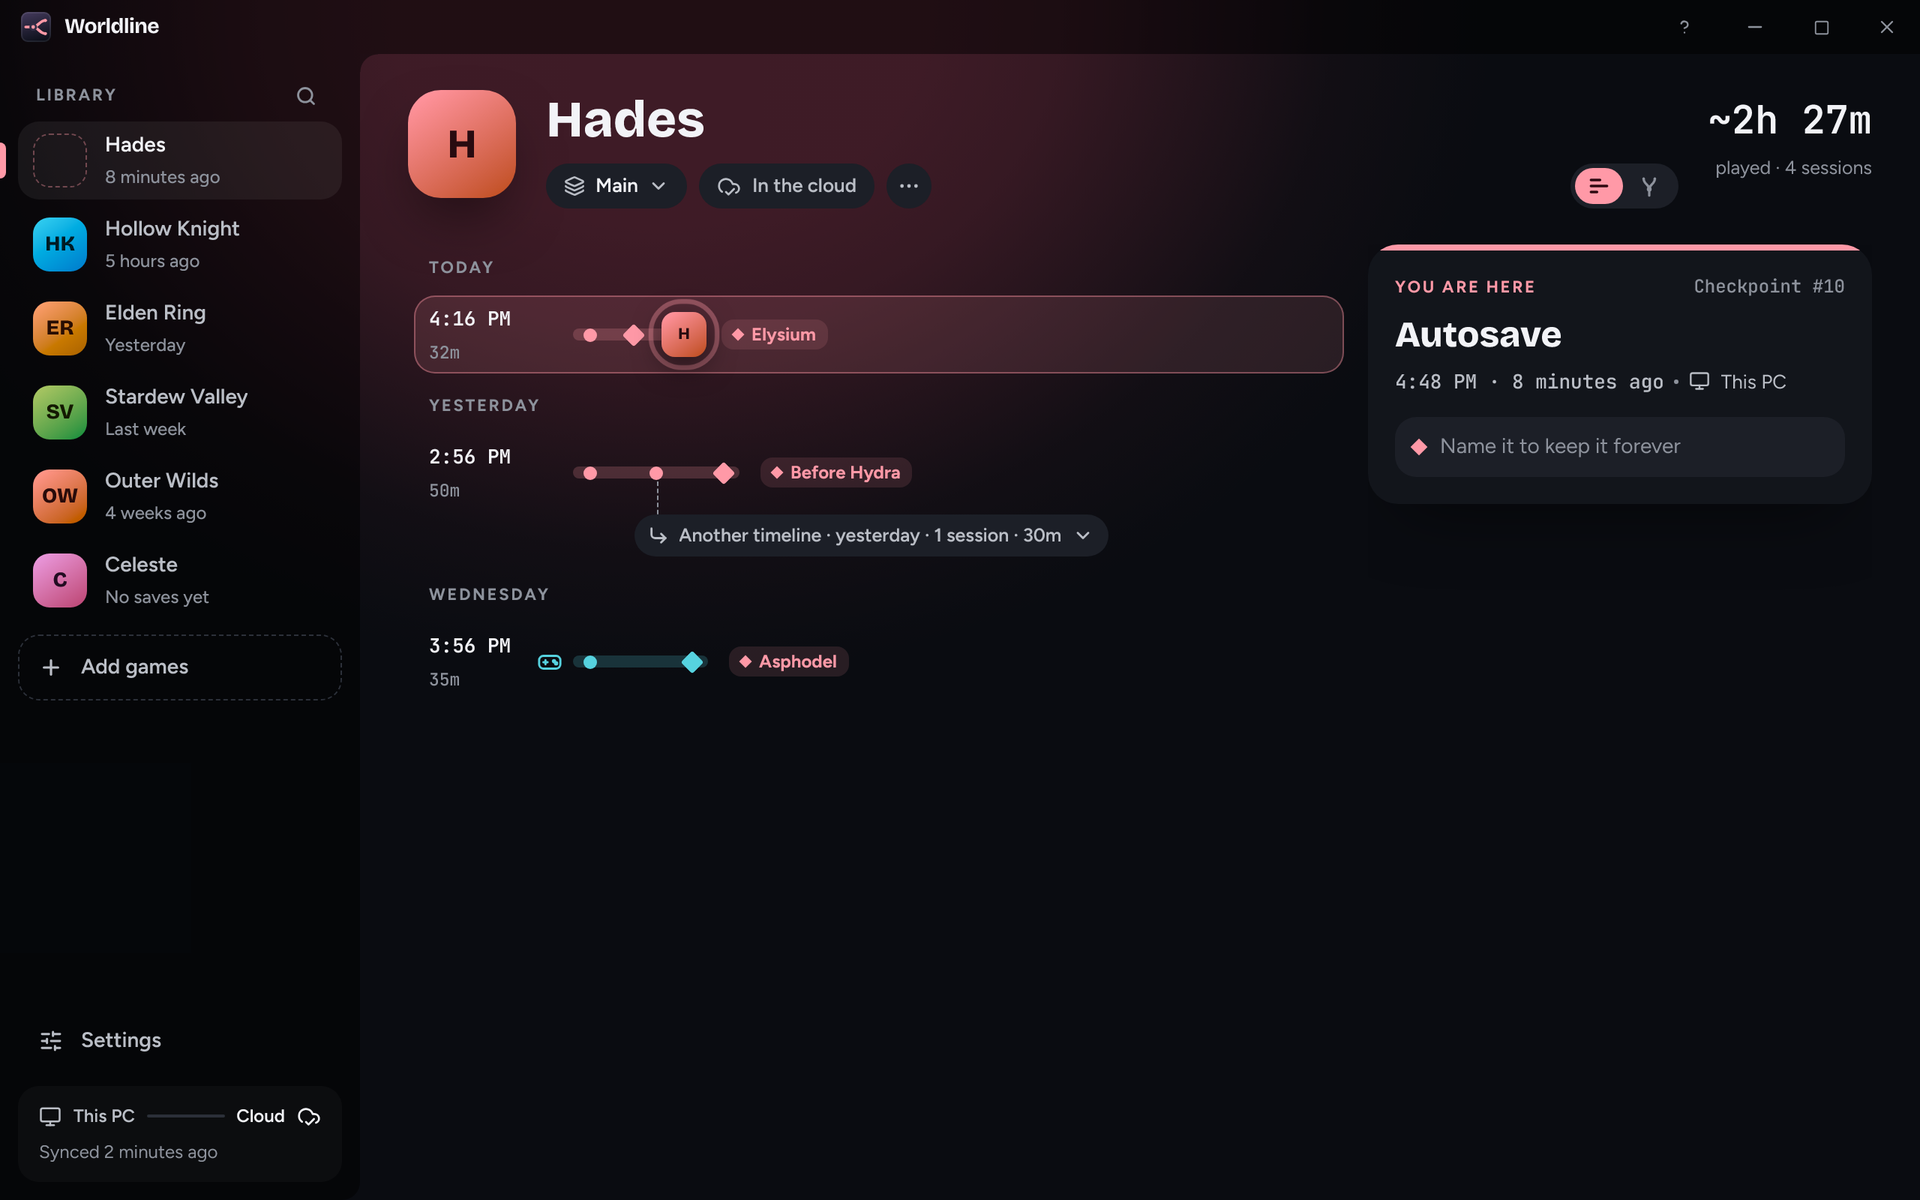
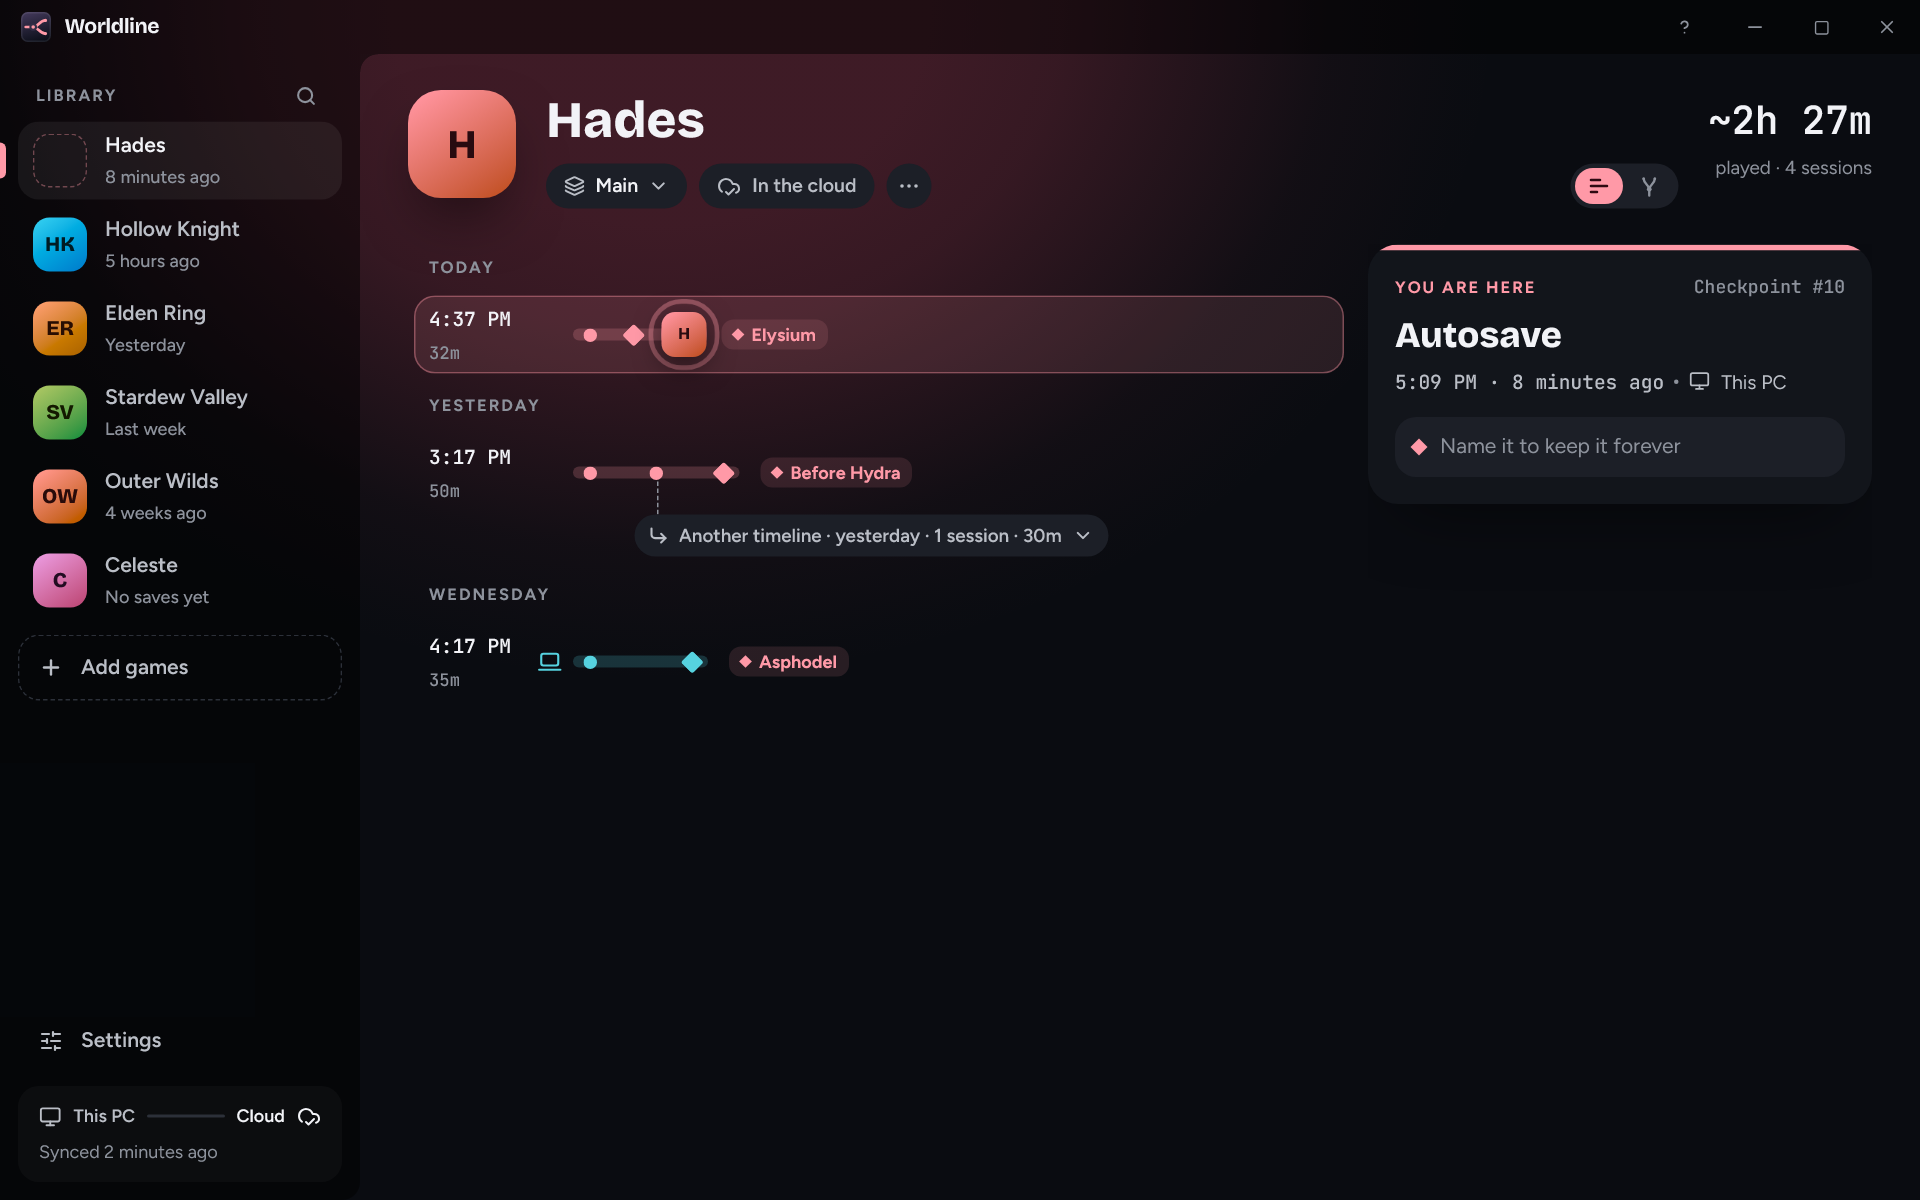
docs: sync is between any devices, not a Steam Deck
The README, the overlay ADR and the mocked UI behind the screenshots name a
laptop as the other device instead of a Steam Deck.

diff --git a/gui/src/ipc/mocks/fixtures.ts b/gui/src/ipc/mocks/fixtures.ts
@@ -109,7 +109,7 @@ function savedGame(id: number, title: string, minutes: number): FullGame {
   });
 }
 
-/** Several games with sync on: one has news from the handheld, one cloud game isn't here. */
+/** Several games with sync on: one has news from the laptop, one cloud game isn't here. */
 function library(): Fixture {
   const games = [eldenRing(), hollowKnight(), savedGame(3, 'Hades', 60 * 5), savedGame(4, 'Celeste', 60 * 24 * 9), savedGame(5, 'Stardew Valley', 60 * 24 * 30)];
   const status = (game: FullGame, relation: Divergence, device: string | null = null): GameSyncStatus => ({
@@ -126,8 +126,8 @@ function library(): Fixture {
     syncSettings: { remote_path: 'D:/Cloud/Worldline' },
     syncReport: {
       synced_at: new Date(Date.now() - 4 * 60_000).toISOString(),
-      games: [status(games[0], 'in_sync'), status(games[1], 'fast_forward', 'Steam Deck'), status(games[2], 'in_sync'), status(games[3], 'in_sync')],
-      remote_games: [{ uuid: 'remote-1', title: 'Hollow Knight: Silksong', installed: false, adopted: false, source_device: 'Steam Deck', version_count: 4 }],
+      games: [status(games[0], 'in_sync'), status(games[1], 'fast_forward', 'Laptop'), status(games[2], 'in_sync'), status(games[3], 'in_sync')],
+      remote_games: [{ uuid: 'remote-1', title: 'Hollow Knight: Silksong', installed: false, adopted: false, source_device: 'Laptop', version_count: 4 }],
       devices: [],
       remote_versions: {},
       problems: [],
@@ -136,18 +136,18 @@ function library(): Fixture {
 }
 
 
-const DECK: DeviceMetadata = {
+const LAPTOP: DeviceMetadata = {
   device_uuid: '00000000-0000-4000-8000-00000000d002',
-  name: 'Steam Deck',
+  name: 'Laptop',
   platform: 'linux',
   first_seen: '2024-01-01T00:00:00Z',
   last_seen: '2024-01-01T00:00:00Z',
-  kind: 'handheld',
+  kind: 'laptop',
 };
 
-type Checkpoint = [id: number, parent: number | null, minutesAgo: number, tag?: string | null, deck?: boolean];
+type Checkpoint = [id: number, parent: number | null, minutesAgo: number, tag?: string | null, laptop?: boolean];
 
-/** Three days of Hades: a session on the handheld, a timeline you left, and tonight's play. */
+/** Three days of Hades: a session on the laptop, a timeline you left, and tonight's play. */
 const HADES: Checkpoint[] = [
   [1, null, 60 * 72 + 60, null, true],
   [2, 1, 60 * 72 + 25, 'Asphodel', true],
@@ -163,14 +163,14 @@ const HADES: Checkpoint[] = [
 
 function hades(extra: Checkpoint[] = []): FullGame {
   const main = makeSlot({ id: 1, game_id: 1, name: 'Main', active_version_id: 10 });
-  const versions = [...HADES, ...extra].map(([id, parent, minutes, tag = null, deck = false]) => makeVersion({
+  const versions = [...HADES, ...extra].map(([id, parent, minutes, tag = null, laptop = false]) => makeVersion({
     id,
     slot_id: 1,
     parent_id: parent,
     version_number: id,
     tag,
     created_at: minutesAgo(minutes),
-    origin_device: deck ? DECK.device_uuid : null,
+    origin_device: laptop ? LAPTOP.device_uuid : null,
   }));
   return makeGame({
     id: 1,
@@ -190,11 +190,11 @@ function celeste(): FullGame {
   return makeGame({ id: 2, title: 'Celeste', active_slot_id: 2, active_slot: main, slots: [main], versions: [], last_version: null });
 }
 
-/** The Sessions view: Hades with history, Celeste with none, the handheld synced in. */
+/** The Sessions view: Hades with history, Celeste with none, the laptop synced in. */
 function sessions(relation: Divergence = 'in_sync', extra: Checkpoint[] = []): Fixture {
   const games = [hades(extra), celeste()];
-  const deckVersions = games[0].versions.filter((v) => v.origin_device === DECK.device_uuid);
-  const pending = relation === 'fast_forward' ? deckVersions[deckVersions.length - 1] : null;
+  const laptopVersions = games[0].versions.filter((v) => v.origin_device === LAPTOP.device_uuid);
+  const pending = relation === 'fast_forward' ? laptopVersions[laptopVersions.length - 1] : null;
   return {
     ...base(games),
     syncSettings: { remote_path: 'D:/Cloud/Worldline' },
@@ -203,14 +203,14 @@ function sessions(relation: Divergence = 'in_sync', extra: Checkpoint[] = []): F
       games: [{
         game_uuid: games[0].uuid,
         relation,
-        remote_device: relation === 'in_sync' ? null : DECK.name,
+        remote_device: relation === 'in_sync' ? null : LAPTOP.name,
         remote_version_uuid: pending?.uuid ?? null,
         remote_version_id: pending?.id ?? null,
         auto_applied: false,
       }],
       remote_games: [],
-      devices: [DECK],
-      remote_versions: Object.fromEntries(deckVersions.map((v) => [v.uuid, DECK.name])),
+      devices: [LAPTOP],
+      remote_versions: Object.fromEntries(laptopVersions.map((v) => [v.uuid, LAPTOP.name])),
       problems: [],
     },
   };
@@ -250,12 +250,12 @@ function addGames(scan: Fixture['scan']): Fixture {
     ...state,
     syncReport: {
       ...report,
-      devices: [DECK, { ...DECK, device_uuid: '00000000-0000-4000-8000-00000000d003', name: 'Laptop', platform: 'windows', kind: 'laptop' }],
+      devices: [LAPTOP, { ...LAPTOP, device_uuid: '00000000-0000-4000-8000-00000000d003', name: 'Work PC', platform: 'windows', kind: 'desktop' }],
       remote_games: [
         ...report.remote_games,
-        { uuid: 'remote-2', title: 'Balatro', installed: true, adopted: false, source_device: 'Laptop', version_count: 12 },
-        { uuid: 'remote-3', title: 'Dave the Diver', installed: false, adopted: false, source_device: 'Steam Deck', version_count: 1 },
-        { uuid: 'remote-4', title: 'Tunic', installed: false, adopted: true, source_device: 'Laptop', version_count: 7 },
+        { uuid: 'remote-2', title: 'Balatro', installed: true, adopted: false, source_device: 'Work PC', version_count: 12 },
+        { uuid: 'remote-3', title: 'Dave the Diver', installed: false, adopted: false, source_device: 'Laptop', version_count: 1 },
+        { uuid: 'remote-4', title: 'Tunic', installed: false, adopted: true, source_device: 'Work PC', version_count: 7 },
       ],
     },
     scanRoots: ['D:/Games', 'E:/Emulation/Saves'],
@@ -277,7 +277,7 @@ function addGamesDone(): Fixture {
   return { ...state, syncReport: { ...report, remote_games: report.remote_games.map((g) => ({ ...g, adopted: true })) } };
 }
 
-/** Settings with sync on: this PC, the handheld and a laptop share the cloud. */
+/** Settings with sync on: this PC, the laptop and an old laptop share the cloud. */
 function settings(): Fixture {
   const state = library();
   const report = state.syncReport as SyncReport;
@@ -287,8 +287,8 @@ function settings(): Fixture {
       ...report,
       devices: [
         state.device,
-        { ...DECK, last_seen: new Date(Date.now() - 120 * 60_000).toISOString() },
-        { ...DECK, device_uuid: '00000000-0000-4000-8000-00000000d003', name: 'Old laptop', platform: 'windows', kind: 'laptop', last_seen: new Date(Date.now() - 40 * 86_400_000).toISOString() },
+        { ...LAPTOP, last_seen: new Date(Date.now() - 120 * 60_000).toISOString() },
+        { ...LAPTOP, device_uuid: '00000000-0000-4000-8000-00000000d003', name: 'Old laptop', platform: 'windows', kind: 'laptop', last_seen: new Date(Date.now() - 40 * 86_400_000).toISOString() },
       ],
     },
     pickedFolder: 'E:/OneDrive/Worldline',

diff --git a/gui/tests/screens/sessions.spec.ts b/gui/tests/screens/sessions.spec.ts
@@ -9,7 +9,7 @@ test.describe('sessions list', () => {
     const list = page.getByLabel('Timeline. Arrow keys move between checkpoints.');
     await expect(list.getByRole('heading', { name: 'Today' })).toBeVisible();
     await expect(list.getByText('Elysium', { exact: true })).toBeVisible();
-    await expect(list.getByRole('img', { name: 'Played on Steam Deck' })).toBeVisible();
+    await expect(list.getByRole('img', { name: 'Played on Laptop' })).toBeVisible();
     await expect(page.getByRole('main').getByText('In the cloud')).toBeVisible();
     // Played time sums the gaps within sessions.
     await expect(page.getByText(/^~\dh \d\dm$/)).toBeVisible();
@@ -96,8 +96,8 @@ test.describe('progress from another device', () => {
 
   test('shows a ghost row that continues here', async ({ page }) => {
     await page.goto('/game/1');
-    await expect(page.getByRole('main').getByText('New from Steam Deck')).toBeVisible();
-    await expect(page.getByText('Played on Steam Deck')).toBeVisible();
+    await expect(page.getByRole('main').getByText('New from Laptop')).toBeVisible();
+    await expect(page.getByText('Played on Laptop')).toBeVisible();
     await page.getByRole('button', { name: 'Continue here' }).click();
     await expect(page.getByRole('button', { name: 'Continue here' })).toHaveCount(0);
     await expect(page.getByLabel('Timeline. Arrow keys move between checkpoints.').getByText('Styx', { exact: true })).toBeVisible();
@@ -106,7 +106,7 @@ test.describe('progress from another device', () => {
   test('warns that rewinding moves that progress aside', async ({ page }) => {
     await page.goto('/game/1');
     await page.getByRole('button', { name: /^Elysium/ }).click();
-    await expect(page.getByText('Steam Deck’s newer progress moves to its own timeline')).toBeVisible();
+    await expect(page.getByText('Laptop’s newer progress moves to its own timeline')).toBeVisible();
   });
 });
 
@@ -125,9 +125,9 @@ test.describe('diverged', () => {
 
   test('opens the other device’s timeline from the sync chip', async ({ page }) => {
     await page.goto('/game/1');
-    const stub = page.getByRole('button', { name: /steam deck’s timeline/i });
+    const stub = page.getByRole('button', { name: /laptop’s timeline/i });
     await expect(stub).toHaveAttribute('aria-expanded', 'false');
-    await page.getByRole('button', { name: 'Steam Deck played too' }).click();
+    await page.getByRole('button', { name: 'Laptop played too' }).click();
     await expect(stub).toHaveAttribute('aria-expanded', 'true');
     await expect(page.getByLabel('Timeline. Arrow keys move between checkpoints.').getByText('Styx', { exact: true })).toBeVisible();
   });

diff --git a/gui/tests/screens/onboarding.spec.ts b/gui/tests/screens/onboarding.spec.ts
@@ -131,7 +131,7 @@ test.describe('second device', () => {
 
   test('points out progress from another device once', async ({ page }) => {
     await page.goto('/');
-    const hint = page.getByRole('status').filter({ hasText: 'Progress from Steam Deck shows up here' });
+    const hint = page.getByRole('status').filter({ hasText: 'Progress from Laptop shows up here' });
     await expect(hint).toBeVisible();
     const stored = await page.evaluate(() => localStorage.getItem('worldline-mock-store'));
     expect(JSON.parse(stored ?? '{}')).toMatchObject({ prefs: { hints: { secondDevice: true } } });

diff --git a/gui/tests/screens/shell.spec.ts b/gui/tests/screens/shell.spec.ts
@@ -19,7 +19,7 @@ test.describe('several games', () => {
     await page.goto('/');
     const library = page.getByRole('complementary', { name: 'Library' });
     await expect(library.getByRole('link', { name: /stardew valley/i })).toBeVisible();
-    await expect(library.getByText('New from Steam Deck')).toBeVisible();
+    await expect(library.getByText('New from Laptop')).toBeVisible();
     await expect(library.getByText('1 game in your cloud isn’t on this PC yet')).toBeAttached();
     await expect(library.getByRole('button', { name: /sync now\. synced/i })).toBeVisible();
   });

diff --git a/gui/tests/screens/settings.spec.ts b/gui/tests/screens/settings.spec.ts
@@ -66,7 +66,7 @@ test.describe('cloud on', () => {
 
     await cloud.getByRole('button', { name: 'Remove Old laptop' }).click();
     await expect(cloud.getByText('Old laptop')).toHaveCount(0);
-    await expect(cloud.getByText('Steam Deck')).toBeVisible();
+    await expect(cloud.getByText('Laptop', { exact: true })).toBeVisible();
 
     await cloud.getByRole('button', { name: 'Change' }).click();
     await expect(cloud.getByText('E:/OneDrive/Worldline')).toBeVisible();

diff --git a/README.md b/README.md
@@ -16,13 +16,13 @@ Made a bad call? Rewind. Want the other path too? Keep both.
 
 [Download](#installation) · [How it works](#how-it-works) · [Features](#features) · [Build from source](#building-from-source) · [Docs](docs/)
 
-<img src="docs/media/sessions.png" alt="A game's timeline in Worldline: today's session, yesterday's with a branch to another timeline, and a session played on a Steam Deck" width="100%">
+<img src="docs/media/sessions.png" alt="A game's timeline in Worldline: today's session, yesterday's with a branch to another timeline, and a session played on another device" width="100%">
 
 </div>
 
 ## Why
 
-Games save over your old file, even after a disaster. Overwrite a save after a bad choice, a corrupted autosave or a boss fight gone wrong, and that progress is gone. Moving between a PC and a handheld means copying save folders by hand and hoping you picked the newer one.
+Games save over your old file, even after a disaster. Overwrite a save after a bad choice, a corrupted autosave or a boss fight gone wrong, and that progress is gone. Playing on more than one device means copying save folders by hand and hoping you picked the newer one.
 
 Worldline watches your games' save folders and keeps every save as a **checkpoint** on a timeline. You don't press anything. When you want to go back, hold a button. Nothing is ever overwritten: if you rewind and play on, the old run splits off into its own **timeline**, and you can switch back whenever you like.
 
@@ -45,7 +45,7 @@ Name a checkpoint ("Before Malenia") to keep it forever. Unnamed ones are thinne
 - **Branching timelines.** Nothing is overwritten. Rewinding and playing on, or playing offline on two devices, keeps both lines.
 - **Two views.** *Sessions* groups checkpoints by when you played; *Graph* shows every timeline on one axis.
 - **Finds your games.** Scans Steam, Epic and your own folders, and knows where thousands of games keep their saves thanks to the [Ludusavi manifest](https://github.com/mtkennerly/ludusavi-manifest).
-- **Sync between devices** through any folder you already sync (Dropbox, OneDrive, Google Drive, Syncthing, a NAS). No account and no server. Progress from your Steam Deck shows up on your PC; if both moved on, both runs are kept and you choose.
+- **Sync between devices** through any folder you already sync (Dropbox, OneDrive, Google Drive, Syncthing, a NAS). No account and no server. Progress from your other devices shows up wherever you play next; if two of them moved on, both runs are kept and you choose.
 - **Playthroughs.** Keep separate histories for separate runs of the same game.
 - **In-game popup and hotkeys** (Windows). A small popup tells you when a checkpoint was kept. *Quick keep* and *Name it* hotkeys save a moment without leaving the game. The popup is a separate window: nothing is injected into the game.
 - **A screenshot of each checkpoint** (Windows 11), so you can see where you were.
@@ -62,7 +62,7 @@ Name a checkpoint ("Before Malenia") to keep it forever. Unnamed ones are thinne
 <table>
   <tr>
     <td width="50%"><img src="docs/media/graph.png" alt="Graph view of a game's timelines"><br><sub><b>Graph view.</b> Every timeline on one axis, named checkpoints as labels.</sub></td>
-    <td width="50%"><img src="docs/media/sync.png" alt="A game where a Steam Deck played too"><br><sub><b>Sync.</b> The Steam Deck played on; its run shows up as its own timeline.</sub></td>
+    <td width="50%"><img src="docs/media/sync.png" alt="A game where another device played too"><br><sub><b>Sync.</b> The laptop played on too; its run shows up as its own timeline.</sub></td>
   </tr>
   <tr>
     <td width="50%"><img src="docs/media/add-games.png" alt="Add games: games in the cloud and installed games found on this PC"><br><sub><b>Add games.</b> Games from your other devices, and the ones installed here.</sub></td>

diff --git a/docs/adr/0009-game-overlay-is-a-separate-window-driven-from-rust.md b/docs/adr/0009-game-overlay-is-a-separate-window-driven-from-rust.md
@@ -62,8 +62,8 @@ anti-cheat or frame pacing, so the shape is fixed here.
 
 - Exclusive-fullscreen games get no popup. The hotkeys still work there: Quick keep with sound
   only, Name it through the main window.
-- Linux is out for now: Wayland can't guarantee always-on-top, and Steam Deck Gaming Mode is
-  gamescope. The overlay code is `cfg(windows)` and a no-op elsewhere.
+- Linux is out for now: Wayland can't guarantee always-on-top, and gamescope sessions
+  don't allow other windows over the game. The overlay code is `cfg(windows)` and a no-op elsewhere.
 - Full-screen captures (streams) show the popup; window captures don't. Quiet mode exists for
   that.
 - A game that raises itself often makes the overlay restack often; a game that is topmost in odd
